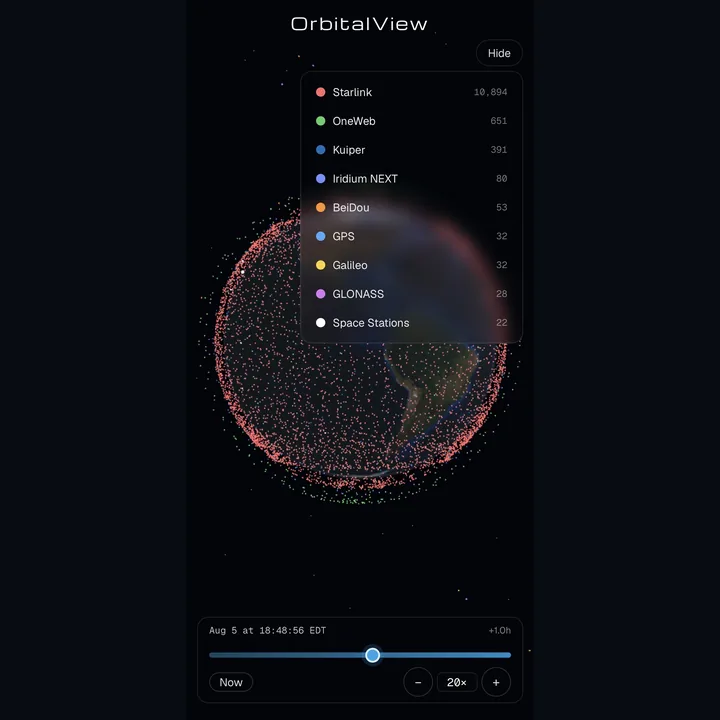
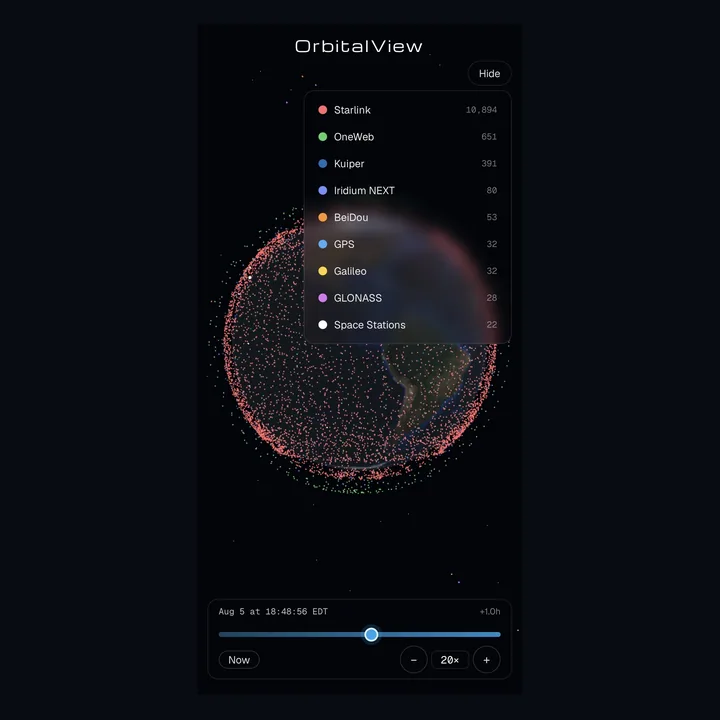
Loosen OrbitalView hub card letterbox to match SuperMars.
Scale the phone screenshot to ~671px tall in the 720 square so top/bottom margins match SuperMars spacing.

Changed region(s): [[0.275, 0.0611, 0.7333, 0.7028], [0.275, 0.825, 0.7028, 0.9778], [0.3972, 0.0306, 0.5806, 0.0917]]

diff --git a/index.html b/index.html
@@ -377,7 +377,7 @@
           <a class="card" href="https://orbital.markmaga.com" data-app="satellite-app" aria-label="Orbital View">
             <span class="card-media">
               <img
-                src="images/satellite-app.webp?v=7"
+                src="images/satellite-app.webp?v=8"
                 alt=""
                 width="720"
                 height="720"
